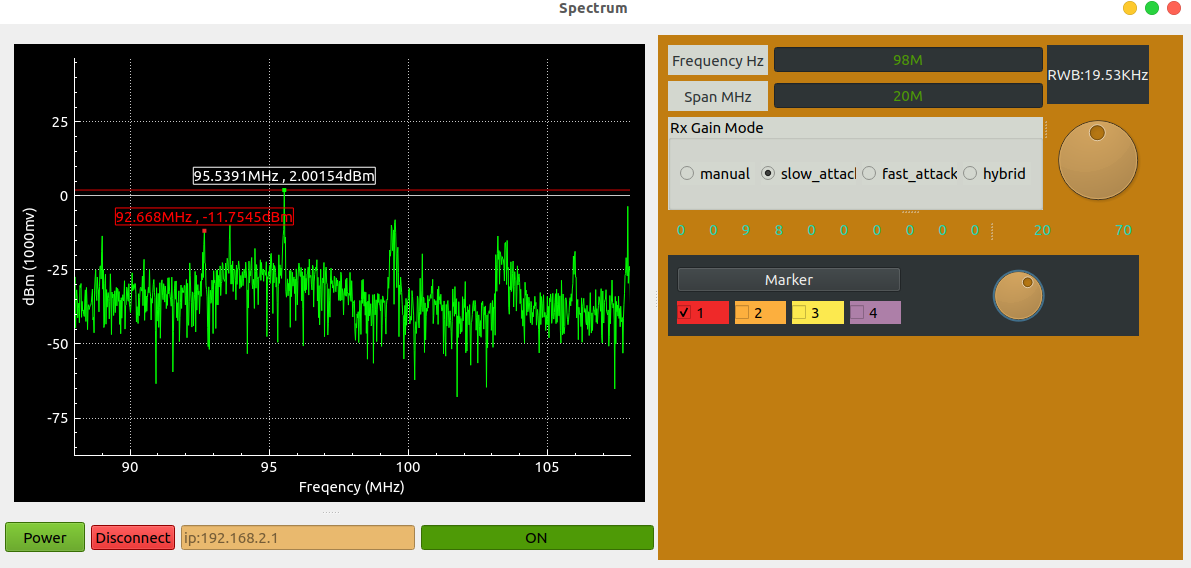
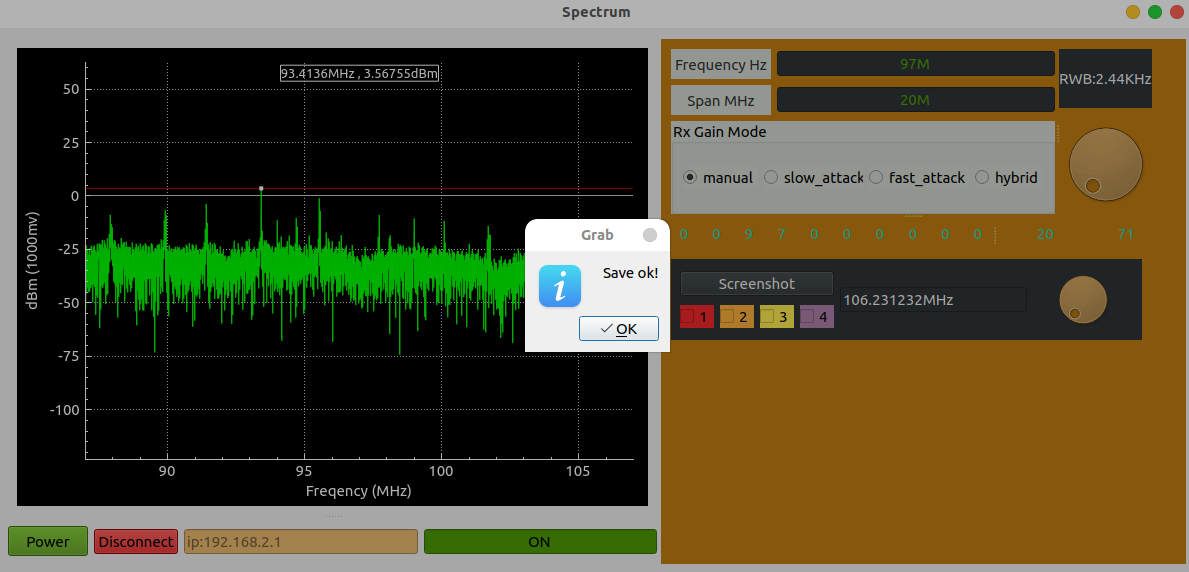
update README.md

diff --git a/README.md b/README.md
@@ -1,7 +1,7 @@
 ---
 Author: jcc
 E-mail:995586238@qq.com
-typora-root-url: .
+typora-root-url: ./
 ---
 
 # Spectrum
@@ -21,6 +21,7 @@ The project is developed from time to time.
 
 - **~~Sweep~~** - You can observe a certain spectrum of interest by setting the center frequency and sweep frequency width.
 - ~~**Mark**~~ - You can mark different punctuation,the max marks is four but the max dbm.
+- ~~**Save img**~~ - You can click screenshot button to save img.
 - **Demodulation** - You can demodulate in different ways.
 - **Other Function**
 
@@ -31,10 +32,24 @@ Email account is as follows:995586238@qq.com
 ## Show
 UI show
 
-![image-20220825152025335](/png/image-0.png)
+- Click Power to begin connect device. default ip:192.168.2.1
 
-![image-20220825152108345](/png/image-1.png)
+![image-20220915194018679](/png/image-0.png)
 
-![image-20220825152242039](/png/image-2.png)
+- Frequency show with 90.174797MHz
 
-![image-20220825152424520](/png/image-3.png)
+![image-20220915194134173](/png/image-1.png)
+
+- Mark function 
+
+![image-20220915194243988](/png/image-2.png)
+
+- click screenshot and auto save img as follow:
+
+![image-20220915194348598](/png/image-3.png)
+
+![image-20220915194456532](/png/image-4.png)
+
+- unfolder function set
+
+![image-20220915195015603](/png/image-5.png)
